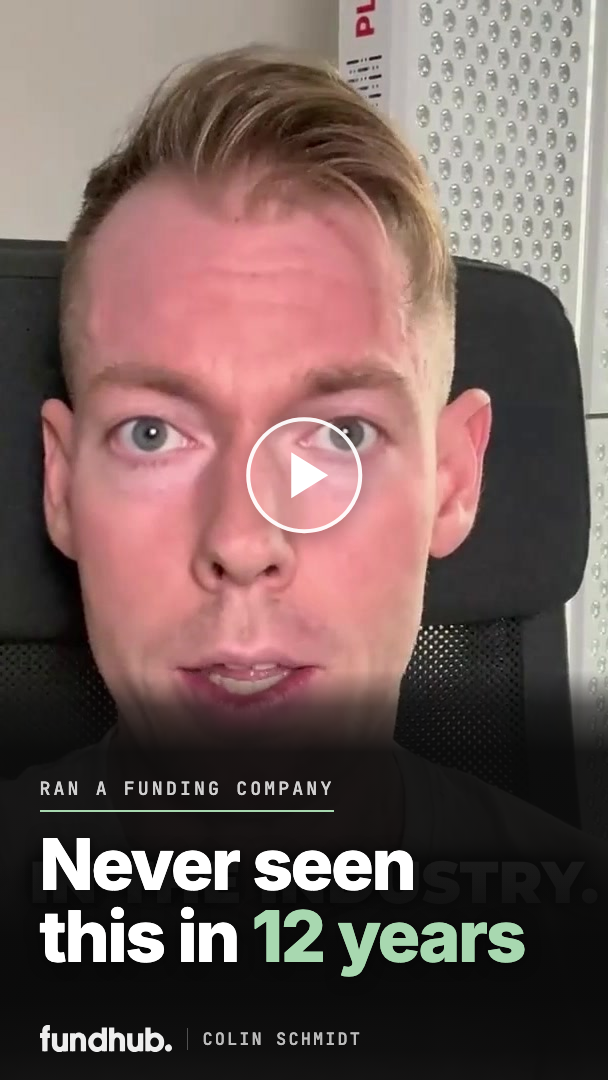
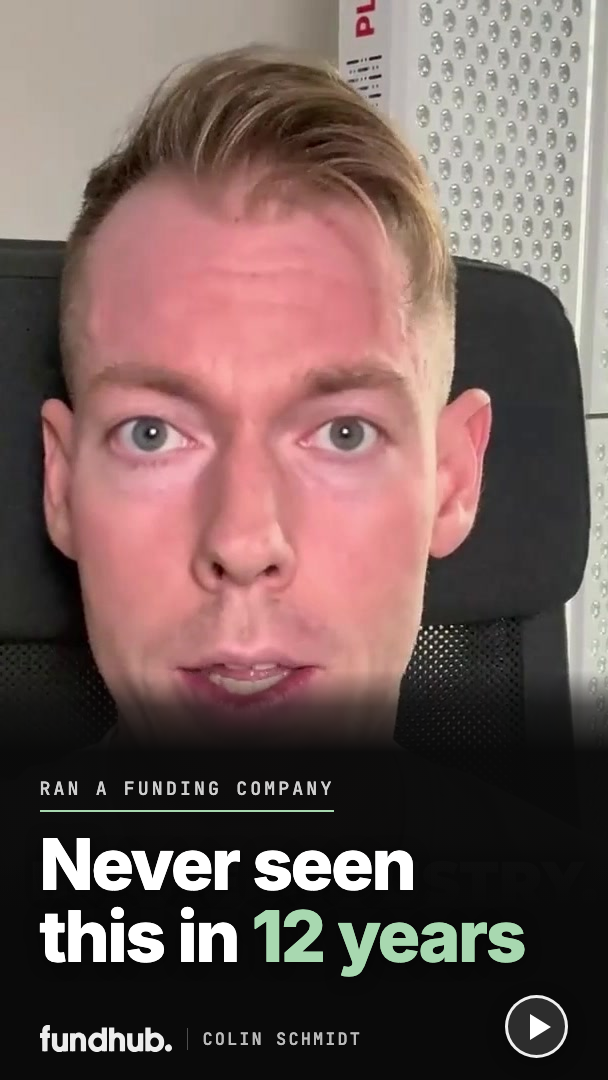
Thumbnails: bury the burned-in captions, move the play chip off the faces.
The dark wash now goes fully opaque across each video's own caption band, set
per person from the measured position (colin 78-93%, gene 84-87%, sarah 64-76%
of frame height). Gene has a caption on every single frame of his two minutes,
so there was no clean frame to pick instead.

Play button moved from the middle of the face to a small chip on the bottom
rail, opposite the wordmark.

Changed region(s): [[0.375, 0.3972, 0.625, 0.5194], [0.8125, 0.9167, 0.9375, 0.9778], [0.4688, 0.3667, 0.5625, 0.4583]]

diff --git a/scripts/testimonials/thumbnail.html b/scripts/testimonials/thumbnail.html
@@ -38,12 +38,12 @@ body{width:100vw;height:100vh;overflow:hidden;background:#000;font-family:var(--
   top:var(--band-top);
   bottom:calc(100% - var(--band-bottom));
   background:linear-gradient(180deg,
-    rgba(10,10,10,0)    0%,
-    rgba(10,10,10,.62)  9%,
-    rgba(10,10,10,.93) 20%,
-    rgba(10,10,10,.94) 80%,
-    rgba(10,10,10,.62) 93%,
-    rgba(10,10,10,0)  100%);
+    rgba(10,10,10,0)     0%,
+    rgba(10,10,10,.66)   9%,
+    rgba(10,10,10,.985) 20%,
+    rgba(10,10,10,.985) 80%,
+    rgba(10,10,10,.66)  93%,
+    rgba(10,10,10,0)   100%);
 }
 
 /* Small wash at the very bottom: seats the wordmark and catches any burned-in
@@ -51,7 +51,7 @@ body{width:100vw;height:100vh;overflow:hidden;background:#000;font-family:var(--
 .foot-scrim{
   position:absolute;left:0;right:0;bottom:0;
   top:var(--foot-top);
-  background:linear-gradient(180deg,rgba(10,10,10,0) 0%,rgba(10,10,10,.86) 34%,rgba(10,10,10,.95) 100%);
+  background:linear-gradient(180deg,rgba(10,10,10,0) 0%,rgba(10,10,10,.55) 10%,rgba(10,10,10,1) 21%,rgba(10,10,10,1) 100%);
 }
 
 .block{
@@ -82,19 +82,19 @@ body{width:100vw;height:100vh;overflow:hidden;background:#000;font-family:var(--
 
 /* Play button — a clean ring, nothing skeuomorphic */
 .play{
-  position:absolute;left:50%;top:var(--play-top,50%);transform:translate(-50%,-50%);
-  width:19rem;height:19rem;border-radius:50%;
-  background:rgba(255,255,255,.13);
-  border:.7rem solid rgba(255,255,255,.93);
+  position:absolute;right:6.5rem;bottom:3.6rem;
+  width:10.4rem;height:10.4rem;border-radius:50%;
+  background:rgba(255,255,255,.14);
+  border:.55rem solid rgba(255,255,255,.93);
   display:flex;align-items:center;justify-content:center;
-  box-shadow:0 1rem 4rem rgba(0,0,0,.3);
+  box-shadow:0 .8rem 3rem rgba(0,0,0,.35);
 }
 .play::after{
   content:"";
-  border-left:6.2rem solid #fff;
-  border-top:3.9rem solid transparent;
-  border-bottom:3.9rem solid transparent;
-  margin-left:2rem;
+  border-left:3.5rem solid #fff;
+  border-top:2.2rem solid transparent;
+  border-bottom:2.2rem solid transparent;
+  margin-left:1.1rem;
 }
 
 .mark{position:absolute;left:6.5rem;bottom:4.6rem;display:flex;align-items:center;gap:2.4rem}
